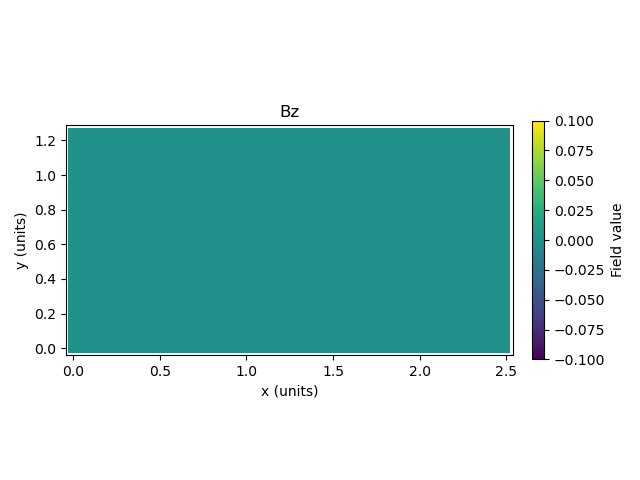
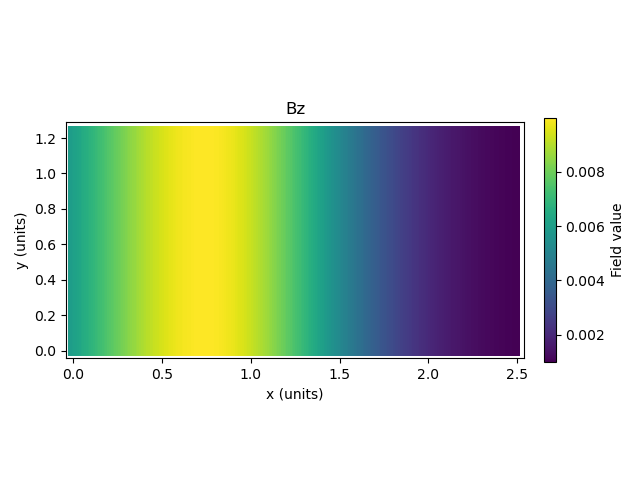
InitializeTypeOfB:From1dXFile を実装。非一様磁場を使用できるようになった。

diff --git a/src/EMField.mm b/src/EMField.mm
@@ -100,28 +100,47 @@ typedef amgcl::make_solver<
         _BxBuffer = [device newBufferWithLength:bufferSize options:MTLResourceStorageModeShared];
         _ByBuffer = [device newBufferWithLength:bufferSize options:MTLResourceStorageModeShared];
         _BzBuffer = [device newBufferWithLength:bufferSize options:MTLResourceStorageModeShared];
-        // 中身の初期化
-        float* rho = (float*)_rhoBuffer.contents;
-        float* Ex = (float*)_ExBuffer.contents;
-        float* Ey = (float*)_EyBuffer.contents;
-        float* Ez = (float*)_EzBuffer.contents;
-        float* Bx = (float*)_BxBuffer.contents;
-        float* By = (float*)_ByBuffer.contents;
-        float* Bz = (float*)_BzBuffer.contents;
         
         // malloc
         _phi = (float *)malloc(sizeof(float) * (_nx+2)*(_ny+2) );
         
-        // initialize(Uniform)
-        for (int i = 0; i < arrSize; i++) {
-            rho[i] = 0.0f;
-            Ex[i] = fieldParam.ampE[0];
-            Ey[i] = fieldParam.ampE[1];
-            Ez[i] = fieldParam.ampE[2];
-            Bx[i] = fieldParam.ampB[0];
-            By[i] = fieldParam.ampB[1];
-            Bz[i] = fieldParam.ampB[2];
+        // initialize E
+        float* Ex = (float*)_ExBuffer.contents;
+        float* Ey = (float*)_EyBuffer.contents;
+        float* Ez = (float*)_EzBuffer.contents;
+        if ([fieldParam.InitTypeE isEqualToString:@"Uniform"]){
+            for (int i = 0; i < arrSize; i++) {
+                Ex[i] = fieldParam.ampE[0];
+                Ey[i] = fieldParam.ampE[1];
+                Ez[i] = fieldParam.ampE[2];
+            }
         }
+        // initialize B
+        float* Bx = (float*)_BxBuffer.contents;
+        float* By = (float*)_ByBuffer.contents;
+        float* Bz = (float*)_BzBuffer.contents;
+        if ([fieldParam.InitTypeB isEqualToString:@"Uniform"]){
+            for (int i = 0; i < arrSize; i++) {
+                Bx[i] = fieldParam.ampB[0];
+                By[i] = fieldParam.ampB[1];
+                Bz[i] = fieldParam.ampB[2];
+            }
+        }else if ([fieldParam.InitTypeB isEqualToString:@"From1dXFile"]){
+            std::vector<float> Bx_input;
+            std::vector<float> By_input;
+            std::vector<float> Bz_input;
+            [self load1dField:Bx_input withFilePath:fieldParam.FilePathBx];
+            [self load1dField:By_input withFilePath:fieldParam.FilePathBy];
+            [self load1dField:Bz_input withFilePath:fieldParam.FilePathBz];
+            for (int i = 0; i <= _nx; i++) {
+                for (int j = 0; j <= _ny; j++) {
+                    Bx[i+j*(_nx+1)] = Bx_input[i]*TtoG;
+                    By[i+j*(_nx+1)] = By_input[i]*TtoG;
+                    Bz[i+j*(_nx+1)] = Bz_input[i]*TtoG;
+                }
+            }
+        }
+        
 
         // construct Poisson solver
         float val_Xmin, val_Xmax, val_Ymin, val_Ymax;
@@ -345,6 +364,70 @@ typedef amgcl::make_solver<
         );
     }
     return self;
+}
+
+- (bool)load1dField:(std::vector<float>&)field withFilePath:(NSString*)filePath{
+    FILE* fp = std::fopen([filePath UTF8String], "rb");
+    if (!fp) {
+        NSLog(@"Error: Unable to open file %@ for reading", filePath);
+        return false;
+    }
+
+    // ヘッダ読み込み
+    int n;
+    float d;
+    if (std::fread(&n,  sizeof(int),   1, fp) != 1 ||
+        std::fread(&d,  sizeof(float), 1, fp) != 1)
+    {
+        NSLog(@"Error: Unable to open file %@ for reading", filePath);
+        std::fclose(fp);
+        return false;
+    }
+
+    // データ本体を読み込み
+    int arrSize = n+1;
+    field.resize(arrSize);
+    if (std::fread(field.data(), sizeof(float), arrSize, fp) != arrSize) {
+        NSLog(@"Error: Unable to open file %@ for reading", filePath);
+        std::fclose(fp);
+        return false;
+    }
+
+    std::fclose(fp);
+    return true;
+}
+
+- (bool)load2dField:(std::vector<float>&)field withFilePath:(NSString*)filePath{
+    FILE* fp = std::fopen([filePath UTF8String], "rb");
+    if (!fp) {
+        NSLog(@"Error: Unable to open file %@ for reading", filePath);
+        return false;
+    }
+
+    // ヘッダ読み込み
+    int nx,ny;
+    float dx,dy;
+    if (std::fread(&nx,  sizeof(int),   1, fp) != 1 ||
+        std::fread(&ny,  sizeof(int),   1, fp) != 1 ||
+        std::fread(&dx,  sizeof(float), 1, fp) != 1 ||
+        std::fread(&dy,  sizeof(float), 1, fp) != 1)
+    {
+        NSLog(@"Error: Unable to open file %@ for reading", filePath);
+        std::fclose(fp);
+        return false;
+    }
+
+    // データ本体を読み込み
+    int arrSize = (nx+1)*(ny+1);
+    field.resize(arrSize);
+    if (std::fread(field.data(), sizeof(float), arrSize, fp) != arrSize) {
+        std::cerr << "Error: Failed to read field data\n";
+        std::fclose(fp);
+        return false;
+    }
+
+    std::fclose(fp);
+    return true;
 }
 
 - (void)solvePoisson{
@@ -650,7 +733,7 @@ typedef amgcl::make_solver<
     writeField(fp, "phi", 4, _phi, (_nx+2)*(_ny+2), sVtoV);
     writeField(fp, "Ex", 1, Ex, (_nx+1)*(_ny+1), GtoV);
     writeField(fp, "Ey", 2, Ey, (_nx+1)*(_ny+1), GtoV);
-    writeField(fp, "Bz", 3, Bz, (_nx+1)*(_ny+1), GtoV);
+    writeField(fp, "Bz", 3, Bz, (_nx+1)*(_ny+1), GtoT);
     
     fclose(fp);
     NSLog(@"Field data successfully written to %s", filePath);

diff --git a/src/Init.mm b/src/Init.mm
@@ -48,13 +48,20 @@
         _field.ngy = -1;
         _field.dx = -1.0;
         _field.dy = -1.0;
-        _field.InitType = NULL;
+        _field.InitTypeE = NULL;
+        _field.InitTypeB = NULL;
         _field.ampE[0] = 0.0;
         _field.ampE[1] = 0.0;
         _field.ampE[2] = 0.0;
         _field.ampB[0] = 0.0;
         _field.ampB[1] = 0.0;
         _field.ampB[2] = 0.0;
+        _field.FilePathEx = NULL;
+        _field.FilePathEy = NULL;
+        _field.FilePathEz = NULL;
+        _field.FilePathBx = NULL;
+        _field.FilePathBy = NULL;
+        _field.FilePathBz = NULL;
         _field.weightOrder = -1;
         _field.ngb = -1;
         _field.maxiter = 200;
@@ -443,20 +450,34 @@
             _field.dx = stod(value);
         } else if (key == "GridSizeOfY") {
             _field.dy = stod(value);
-        } else if (key == "InitializeType") {
-            _field.InitType = [NSString stringWithUTF8String:value.c_str()];
+        } else if (key == "InitializeTypeOfE") {
+            _field.InitTypeE = [NSString stringWithUTF8String:value.c_str()];
         } else if (key == "AmplitudeOfE[V/m]") {
             _field.ampE[0] = stod(value)*VtoG;
             if (iss >> val1 >> val2) {
                 _field.ampE[1] = stod(val1)*VtoG;
                 _field.ampE[2] = stod(val2)*VtoG;
             }
+        } else if (key == "FilePathOfEx") {
+            _field.FilePathEx = [NSString stringWithUTF8String:value.c_str()];
+        } else if (key == "FilePathOfEy") {
+            _field.FilePathEy = [NSString stringWithUTF8String:value.c_str()];
+        } else if (key == "FilePathOfEz") {
+            _field.FilePathEz = [NSString stringWithUTF8String:value.c_str()];
+        } else if (key == "InitializeTypeOfB") {
+            _field.InitTypeB = [NSString stringWithUTF8String:value.c_str()];
         } else if (key == "AmplitudeOfB[V/m]") {
             _field.ampB[0] = stod(value)*TtoG;
             if (iss >> val1 >> val2) {
                 _field.ampB[1] = stod(val1)*TtoG;
                 _field.ampB[2] = stod(val2)*TtoG;
             }
+        } else if (key == "FilePathOfBx") {
+            _field.FilePathBx = [NSString stringWithUTF8String:value.c_str()];
+        } else if (key == "FilePathOfBy") {
+            _field.FilePathBy = [NSString stringWithUTF8String:value.c_str()];
+        } else if (key == "FilePathOfBz") {
+            _field.FilePathBz = [NSString stringWithUTF8String:value.c_str()];
         } else if (key == "WeightingOrder") {
             _field.weightOrder = stoi(value);
             _field.ngb = stoi(value)/2; // 5th-order -> ngb = 2
@@ -554,7 +575,6 @@
                 // culculate weight from initial number density
                 float ppc = (float)_particles[s].pNum/(float)(_field.ngx*_field.ngy);
                 _particles[s].w = _initWeightFromDens[s]*_field.dx*_field.dy/ppc;
-                NSLog(@"check particleParam for %@: bunbo = %e, bunshi = %e", _particles[s].pName, _initWeightFromDens[s]*_field.dx*_field.dy, ppc);
             }else{
                 NSLog(@"check particleParam for %@ failed.", _particles[s].pName);
                 return false;

diff --git a/tools/Bfld.py b/tools/Bfld.py
@@ -1,0 +1,72 @@
+import struct
+import math
+import numpy as np
+from typing import Sequence
+
+def write_1d_field(
+    file_path: str,
+    n: int,
+    d: float,
+    data: Sequence[float]
+) -> None:
+    """
+    EMField.load1dField: が読み込めるバイナリを生成する。
+
+    Parameters
+    ----------
+    file_path : str
+        出力先ファイルパス
+    n : int
+        配列サイズ n（実データは後で n+1 要素）
+    d : float
+        ヘッダの浮動小数点値
+    data : Sequence[float]
+        長さ n+1 のデータシーケンス
+    """
+    if len(data) != n + 1:
+        raise ValueError(f"data length must be n+1 ({n+1}), but got {len(data)}")
+
+    # '<' はリトルエンディアン。'i' は 4 バイト int、'f' は 4 バイト float。
+    with open(file_path, 'wb') as f:
+        # ヘッダ部分
+        f.write(struct.pack('<i', n))
+        f.write(struct.pack('<f', d))
+        # データ部分
+        f.write(struct.pack(f'<{n+1}f', *data))
+
+
+
+if __name__ == "__main__":
+    dx = 1e-2
+    ngx = 250
+    ngb = 2
+    nx = ngx+2*ngb
+
+    ## set param
+    bm_1    = 6e-3
+    bm_max  = 10e-3
+    bm_2    = 1e-3
+    x_1     = ngb*dx
+    x_max   = ngb*dx + 0.75
+    x_2     = (ngx+ngb)*dx
+    sgm1    = 0.625
+    sgm2    = 0.625
+    # bm_wnum = 8e-3
+    # bm_wamp = 0.2e-3
+    aa1 = (bm_max-bm_1)/(1-math.exp(-0.5*(x_max-x_1)**2/sgm1**2))
+    bb1 = bm_max - aa1
+    aa2 = (bm_max-bm_2)/(1-math.exp(-0.5*(x_max-x_2)**2/sgm2**2))
+    bb2 = bm_max - aa2
+    ## create mesh
+    i = np.arange(nx+1)
+    bmx = (i + 0.5) * dx
+    bs1d = np.where(
+        bmx < x_max,
+        aa1 * np.exp(-0.5 * (bmx - x_max)**2 / (sgm1**2)) + bb1,
+        aa2 * np.exp(-0.5 * (bmx - x_max)**2 / (sgm2**2)) + bb2
+    )
+    write_1d_field("data/Bz.bin", nx, dx, bs1d)
+    ## output zeros
+    write_1d_field("data/Bx.bin", nx, dx, np.zeros(nx+1))
+    write_1d_field("data/By.bin", nx, dx, np.zeros(nx+1))
+    print("done")

diff --git a/src/Init.h b/src/Init.h
@@ -53,9 +53,16 @@ struct ParamForField {
     int ngb;
     double dx;
     double dy;
-    NSString* InitType;
+    NSString* InitTypeE;
+    NSString* InitTypeB;
     double ampE[3];
     double ampB[3];
+    NSString* FilePathEx;
+    NSString* FilePathEy;
+    NSString* FilePathEz;
+    NSString* FilePathBx;
+    NSString* FilePathBy;
+    NSString* FilePathBz;
     int weightOrder;
     int maxiter;
     float tolerance;

diff --git a/src/EMField.h b/src/EMField.h
@@ -10,6 +10,8 @@
 - (void)solvePoisson;
 - (void)resetChargeDensity;
 - (void)outputField:(int)cycle;
+- (bool)load1dField:(std::vector<float>&)field withFilePath:(NSString*)filePath;
+- (bool)load2dField:(std::vector<float>&)field withFilePath:(NSString*)filePath;
 
 // Metal バッファへのアクセサ
 - (id<MTLBuffer>)rhoBuffer;
